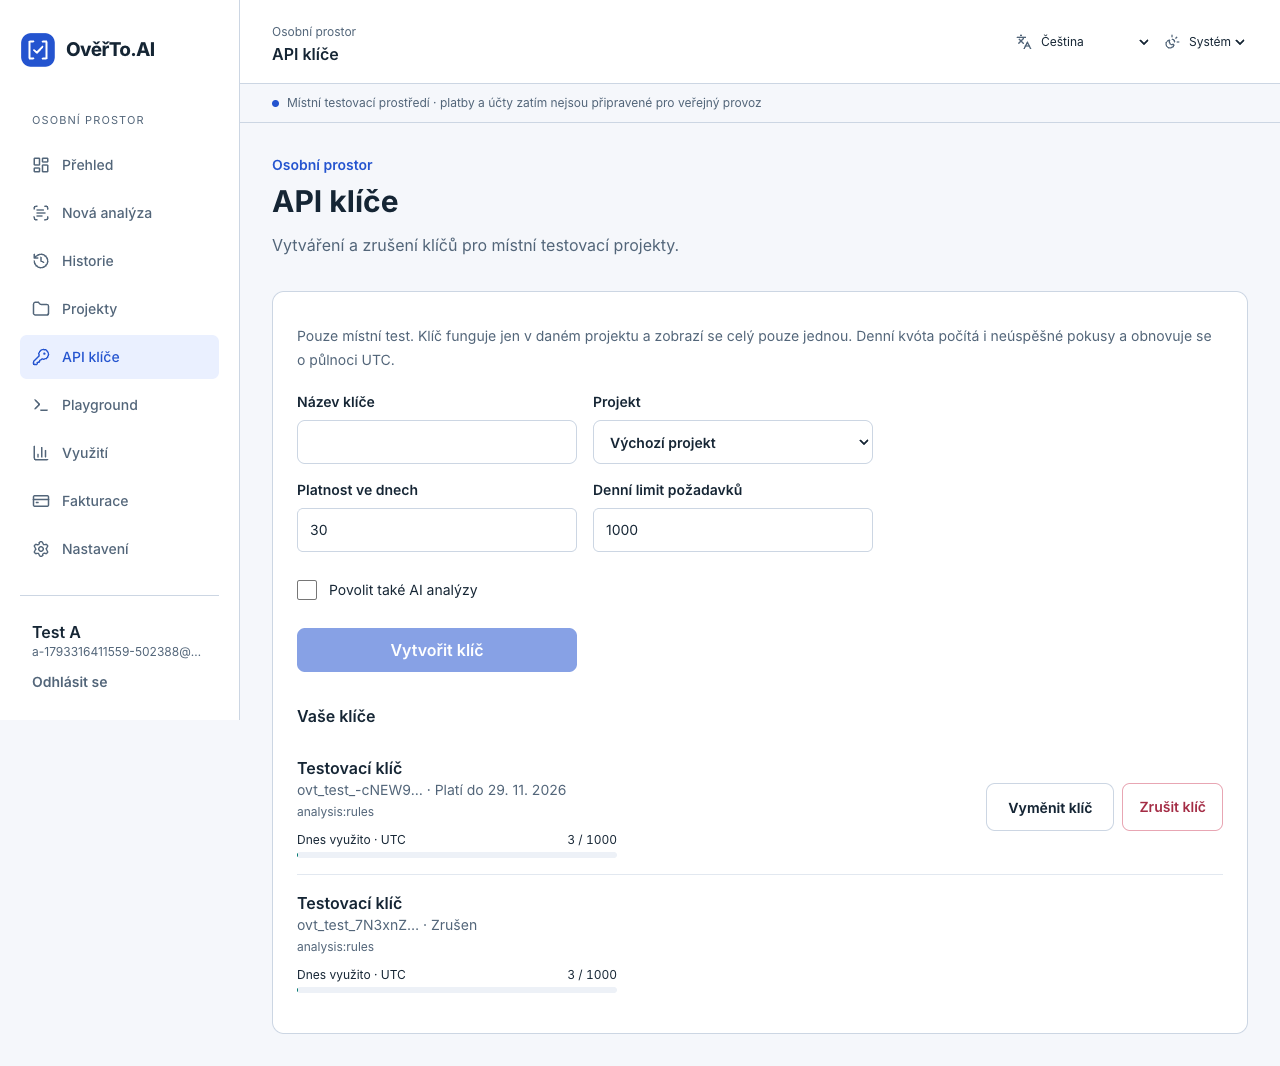
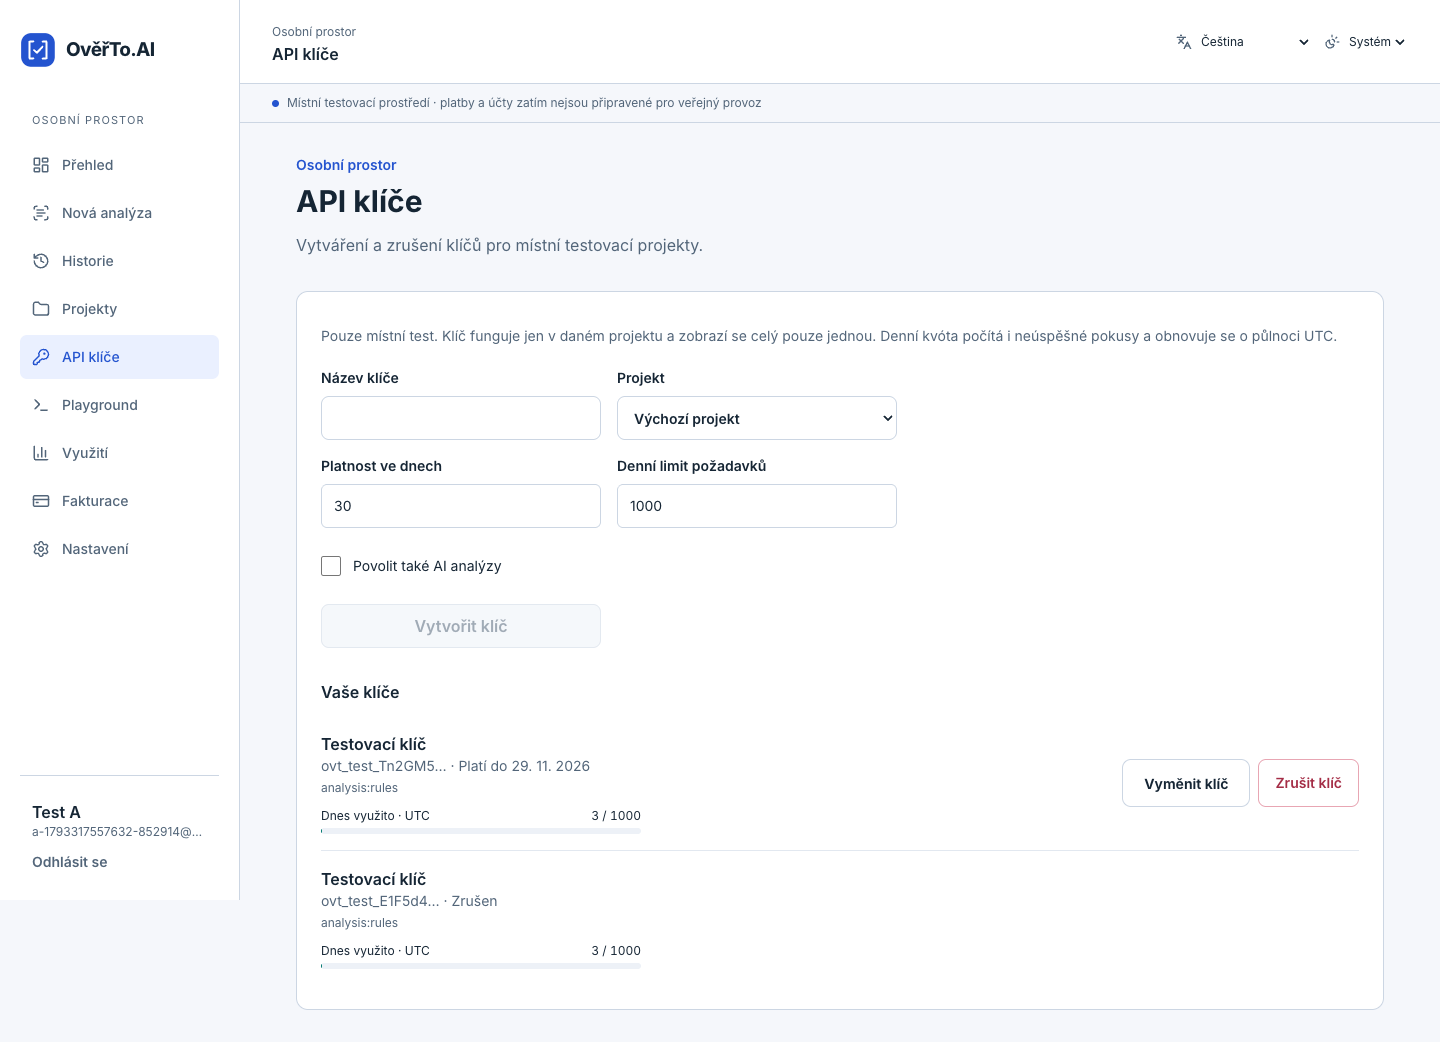
Refine mobile dashboard and API key controls after visual review

diff --git a/src/components/account/ApiKeyManager.tsx b/src/components/account/ApiKeyManager.tsx
@@ -13,8 +13,8 @@ export function ApiKeyManager({ projects, keys }: { projects: { id: string; name
   }
   async function rotate(id:string){if(!confirm(t('rotateConfirm')))return;setBusy(true);setError('');setRevealed('');setCopied(false);try{const response=await fetch(`/api/local/api-keys/${encodeURIComponent(id)}`,{method:'POST'});const data=await response.json();if(!response.ok){setError(t('keyCreateError'));return;}setRevealed(data.key);router.refresh();}catch{setError(t('network'));}finally{setBusy(false);}}
   async function revoke(id: string) { setError(''); setBusy(true); try { const response = await fetch(`/api/local/api-keys/${encodeURIComponent(id)}`, { method: 'DELETE' }); if (!response.ok) setError(t('keyRevokeError')); else router.refresh(); } catch { setError(t('network')); } finally { setBusy(false); } }
-  return <><p className="mt-2 text-sm leading-6 text-slate-600">{t('keyNote')}</p><form onSubmit={create} className="mt-5 grid max-w-xl gap-4 sm:grid-cols-2"><label className="text-sm font-semibold">{t('keyName')}<input required maxLength={80} value={name} onChange={e => setName(e.target.value)} className="mt-2 min-h-11 w-full rounded-lg border border-slate-300 px-3"/></label><label className="text-sm font-semibold">{t('project')}<select value={projectId} onChange={e => setProjectId(e.target.value)} className="mt-2 min-h-11 w-full rounded-lg border border-slate-300 bg-white px-3">{projects.map(project => <option key={project.id} value={project.id}>{project.name}</option>)}</select></label><label className="text-sm font-semibold">{t('expiresDays')}<input type="number" min={1} max={90} required value={expiresDays} onChange={e=>setExpiresDays(Number(e.target.value))} className="studio-input"/></label><label className="text-sm font-semibold">{t('dailyLimit')}<input type="number" min={1} max={100000} required value={dailyRequestLimit} onChange={e=>setDailyRequestLimit(Number(e.target.value))} className="studio-input"/></label><label className="flex min-h-11 items-center gap-3 text-sm sm:col-span-2"><input type="checkbox" checked={allowAi} onChange={e=>setAllowAi(e.target.checked)} className="size-5"/>{t('allowAi')}</label><button disabled={busy || !name.trim() || !projectId} className="min-h-11 rounded-lg bg-teal-800 px-4 font-semibold text-white hover:bg-teal-900 disabled:opacity-50">{busy ? t('working') : t('createKey')}</button></form>
+  return <><p className="mt-2 text-sm leading-6 text-slate-600">{t('keyNote')}</p><form onSubmit={create} className="mt-5 grid max-w-xl gap-4 sm:grid-cols-2"><label className="text-sm font-semibold">{t('keyName')}<input required maxLength={80} value={name} onChange={e => setName(e.target.value)} className="mt-2 min-h-11 w-full rounded-lg border border-slate-300 px-3"/></label><label className="text-sm font-semibold">{t('project')}<select value={projectId} onChange={e => setProjectId(e.target.value)} className="mt-2 min-h-11 w-full rounded-lg border border-slate-300 bg-white px-3">{projects.map(project => <option key={project.id} value={project.id}>{project.name}</option>)}</select></label><label className="text-sm font-semibold">{t('expiresDays')}<input type="number" min={1} max={90} required value={expiresDays} onChange={e=>setExpiresDays(Number(e.target.value))} className="studio-input"/></label><label className="text-sm font-semibold">{t('dailyLimit')}<input type="number" min={1} max={100000} required value={dailyRequestLimit} onChange={e=>setDailyRequestLimit(Number(e.target.value))} className="studio-input"/></label><label className="flex min-h-11 items-center gap-3 text-sm sm:col-span-2"><input type="checkbox" checked={allowAi} onChange={e=>setAllowAi(e.target.checked)} className="size-5"/>{t('allowAi')}</label><button disabled={busy || !name.trim() || !projectId} className="api-key-create min-h-11 rounded-lg bg-teal-800 px-4 font-semibold text-white hover:bg-teal-900">{busy ? t('working') : t('createKey')}</button></form>
   {error && <p role="alert" className="mt-4 text-sm text-rose-800">{error}</p>}
   {revealed && <section className="mt-5 rounded-lg border border-amber-300 bg-amber-50 p-4"><h3 className="font-semibold">{t('copyNow')}</h3><p className="mt-1 text-sm">{t('keyOnce')}</p><label htmlFor="new-api-key" className="sr-only">{t('newKey')}</label><input id="new-api-key" readOnly value={revealed} className="mt-3 w-full rounded border border-amber-300 bg-white p-2 text-sm"/><button type="button" onClick={async () => { try { await navigator.clipboard.writeText(revealed); setCopied(true); } catch { setError(t('copyError')); } }} className="mt-3 min-h-10 font-semibold text-teal-800 underline">{copied ? t('copied') : t('copy')}</button></section>}
-  <h3 className="mt-8 font-semibold">{t('yourKeys')}</h3>{keys.length ? <ul className="mt-3 divide-y divide-slate-200">{keys.map(key => <li key={key.id} className="flex flex-wrap items-center justify-between gap-4 py-4"><div className="min-w-0 flex-1"><p className="font-semibold">{key.name}</p><p className="text-sm text-slate-600">{key.key_prefix}… · {key.revoked_at ? t('revoked') : t('validUntil') + new Date(key.expires_at).toLocaleDateString(locale==='cs'?'cs-CZ':'en-GB')}</p><p className="muted mt-1 text-xs">{key.scopes.join(' · ')}</p><div className="mt-3 max-w-xs" aria-label={t('dailyUsage', { used: key.daily_used, limit: key.daily_request_limit })}><div className="mb-1 flex justify-between gap-3 text-xs"><span>{t('dailyUsageLabel')}</span><span className="tabular-nums">{key.daily_used} / {key.daily_request_limit}</span></div><div className="h-1.5 overflow-hidden rounded-full bg-slate-200"><div className="h-full rounded-full bg-teal-700" style={{ width: `${Math.min(100, key.daily_used / key.daily_request_limit * 100)}%` }}/></div></div></div>{!key.revoked_at && <div className="flex flex-wrap gap-2"><button type="button" disabled={busy} onClick={()=>rotate(key.id)} className="button button-secondary">{t('rotate')}</button><button type="button" disabled={busy} onClick={() => revoke(key.id)} className="min-h-11 rounded-lg border border-rose-300 px-4 text-sm font-semibold text-rose-800 hover:bg-rose-50 disabled:opacity-50">{t('revoke')}</button></div>}</li>)}</ul> : <p className="mt-3 text-sm text-slate-600">{t('noKeys')}</p>}</>;
+  <h3 className="mt-8 font-semibold">{t('yourKeys')}</h3>{keys.length ? <ul className="mt-3 divide-y divide-slate-200">{keys.map(key => <li key={key.id} className="api-key-row flex flex-wrap items-center justify-between gap-4 py-4"><div className="min-w-0 flex-1"><p className="font-semibold">{key.name}</p><p className="text-sm text-slate-600">{key.key_prefix}… · {key.revoked_at ? t('revoked') : t('validUntil') + new Date(key.expires_at).toLocaleDateString(locale==='cs'?'cs-CZ':'en-GB')}</p><p className="muted mt-1 text-xs">{key.scopes.join(' · ')}</p><div className="mt-3 max-w-xs" aria-label={t('dailyUsage', { used: key.daily_used, limit: key.daily_request_limit })}><div className="mb-1 flex justify-between gap-3 text-xs"><span>{t('dailyUsageLabel')}</span><span className="tabular-nums">{key.daily_used} / {key.daily_request_limit}</span></div><div className="h-1.5 overflow-hidden rounded-full bg-slate-200"><div className="h-full rounded-full bg-teal-700" style={{ width: `${Math.min(100, key.daily_used / key.daily_request_limit * 100)}%` }}/></div></div></div>{!key.revoked_at && <div className="flex flex-wrap gap-2"><button type="button" disabled={busy} onClick={()=>rotate(key.id)} className="button button-secondary">{t('rotate')}</button><button type="button" disabled={busy} onClick={() => revoke(key.id)} className="min-h-11 rounded-lg border border-rose-300 px-4 text-sm font-semibold text-rose-800 hover:bg-rose-50 disabled:opacity-50">{t('revoke')}</button></div>}</li>)}</ul> : <p className="mt-3 text-sm text-slate-600">{t('noKeys')}</p>}</>;
 }

diff --git a/e2e/local-product.e2e.ts b/e2e/local-product.e2e.ts
@@ -51,15 +51,24 @@ async function verifiedSignup(page: Page, name: string, email: string, password:
   await expect(page.getByRole('heading', { name: `Vítejte, ${name}.` })).toBeVisible();
 }
 
+async function captureDarkMobile(page: Page, path: string) {
+  const desktop = page.viewportSize();
+  await page.setViewportSize({ width: 390, height: 844 });
+  await page.emulateMedia({ colorScheme: 'dark' });
+  await page.screenshot({ path, fullPage: true });
+  await page.emulateMedia({ colorScheme: 'light' });
+  if (desktop) await page.setViewportSize(desktop);
+}
+
 test('local registration, workspace, project, logout and isolation', async ({ browser }) => {
-  const one = await browser.newContext({ locale: 'cs-CZ' }); const two = await browser.newContext({ locale: 'cs-CZ' });
+  const one = await browser.newContext({ locale: 'cs-CZ', viewport: { width: 1440, height: 900 } }); const two = await browser.newContext({ locale: 'cs-CZ' });
   const a = await one.newPage(); const b = await two.newPage();
   const suffix = `${Date.now()}-${Math.floor(Math.random() * 1000000)}`;
   const password = 'unique-local-test-password-42';
   const aEmail = `a-${suffix}@example.com`;
   await verifiedSignup(a, 'Test A', aEmail, password);
   await expect(a.getByRole('heading', { name: 'Testovací kredity' })).toBeVisible(); await expect(a.getByText('10', { exact: true })).toBeVisible();
-  if (process.env.OVERTO_CAPTURE_UI === 'true') await a.screenshot({ path: 'assets/screenshots/v7-dashboard-cs-1440.png', fullPage: true });
+  if (process.env.OVERTO_CAPTURE_UI === 'true') { await a.screenshot({ path: 'assets/screenshots/v7-dashboard-cs-1440.png', fullPage: true }); await captureDarkMobile(a, 'assets/screenshots/v7-dashboard-cs-dark-390.png'); }
   await a.goto('/dashboard/analyze');
   await a.getByLabel('Vložte podezřelou zprávu').fill('Ahoj mami, mám nové číslo. Pošli mi ihned peníze.');
   await a.getByRole('button', { name: 'Pokračovat ke kontrole textu' }).click();
@@ -113,7 +122,7 @@ test('local registration, workspace, project, logout and isolation', async ({ br
   await expect(a.getByLabel('Nový API klíč')).toHaveCount(0);
   const activeKeyRow = a.locator('li').filter({ hasText: apiKey.slice(0, 15) });
   await expect(activeKeyRow.getByLabel('Dnes využito 3 z 1000 požadavků')).toBeVisible();
-  if (process.env.OVERTO_CAPTURE_UI === 'true') await a.screenshot({ path: 'assets/screenshots/v7-api-keys-cs-1440.png', fullPage: true });
+  if (process.env.OVERTO_CAPTURE_UI === 'true') { await a.screenshot({ path: 'assets/screenshots/v7-api-keys-cs-1440.png', fullPage: true }); await captureDarkMobile(a, 'assets/screenshots/v7-api-keys-cs-dark-390.png'); }
   await activeKeyRow.getByRole('button', { name: 'Zrušit klíč' }).click();
   await expect(activeKeyRow).toContainText('Zrušen');
   const revoked = await a.request.post('/api/v1/analyses', { headers: { Authorization: `Bearer ${apiKey}`, 'Idempotency-Key': crypto.randomUUID() }, data: { text: 'Test zpráva', enableLlm: false } });

diff --git a/src/app/globals.css b/src/app/globals.css
@@ -154,6 +154,8 @@ input::placeholder,textarea::placeholder { color:var(--muted); opacity:1; }
 .studio-trace-status[data-status="SUCCESS"] { border-color:var(--accent-text); color:var(--accent-text); }
 .studio-trace-status[data-status="FAILED"] { border-color:var(--danger-line); color:var(--danger-text); }
 .studio-trace-status[data-status="UNAVAILABLE"] { border-color:var(--warning-line); color:var(--warning-text); }
+.api-key-create:disabled { background:var(--surface-alt); color:var(--muted); border:1px solid var(--line); cursor:not-allowed; }
+@media(max-width:640px) { .api-key-row { flex-direction:column; align-items:stretch; }.api-key-row > div:first-child { flex:none; width:100%; }.api-key-row > div:last-child { align-self:flex-start; } }
 @media(max-width:850px) { .studio-metrics { grid-template-columns:repeat(2,minmax(0,1fr)); }.studio-metrics section { border-bottom:1px solid var(--line); }.studio-metrics section:nth-child(2n) { border-right:0; }.studio-metrics section:last-child { border-bottom:0; } }
 @media(max-width:750px) { .dashboard-metrics { grid-template-columns:1fr; }.dashboard-metrics section { padding:20px 22px; border-right:0; border-bottom:1px solid var(--line); }.dashboard-metrics section:last-child { border-bottom:0; }.dashboard-value { font-size:34px; }.dashboard-start { align-items:flex-start; flex-direction:column; padding:24px; } }
 .workspace-stage-heading { min-height:48px; padding:12px 0; color:var(--muted); font-size:14px; font-weight:600; }

diff --git a/docs/design/FINAL-VISUAL-REVIEW.md b/docs/design/FINAL-VISUAL-REVIEW.md
@@ -45,10 +45,12 @@ The live public reference and its access limits are recorded in [reference revie
 | Home mobile, Czech dark | [Home mobile](../../assets/screenshots/v7-home-cs-dark-390.png) | One-column hero and annotation fit without horizontal overflow; the full-page capture is tall. |
 | Analysis mobile, English dark | [Analysis](../../assets/screenshots/v7-analyze-en-dark-390.png) | Disabled review action now uses a neutral surface and legible text. |
 | Dashboard desktop, Czech light | [Dashboard](../../assets/screenshots/v7-dashboard-cs-1440.png) | Credits, projects and plan form one scannable strip; all values come from the test account. |
+| Dashboard mobile, Czech dark | [Dashboard mobile](../../assets/screenshots/v7-dashboard-cs-dark-390.png) | Metrics stack cleanly; the primary analysis action stays visible below them. |
 | API keys desktop, Czech light | [Keys](../../assets/screenshots/v7-api-keys-cs-1440.png) | Current and revoked key show the same quota lineage; only prefixes are visible. |
+| API keys mobile, Czech dark | [Keys mobile](../../assets/screenshots/v7-api-keys-cs-dark-390.png) | First capture exposed squeezed key details and a low-contrast disabled button. The layout and disabled state were corrected, then recaptured after a clean dev restart. Key prefixes only are visible. |
 | Playground desktop, Czech light | [Playground](../../assets/screenshots/v7-playground-cs-1440.png) | Decision, signal count, engine and credits precede expandable JSON. The input was cleared before capture. |
 | Docs, English, 1024px | [Documentation](../../assets/screenshots/v7-docs-en-1024.png) | Navigation, code examples and content measure are readable. |
 | AI Studio, English desktop light | [Light](../../assets/screenshots/v7-ai-studio-en-light.png) | Compact live metrics and bordered trace rows replace the earlier card stack. The obsolete feature disclaimer was corrected. |
 | AI Studio, English desktop dark | [Dark](../../assets/screenshots/v7-ai-studio-en-dark.png) | Status labels remain readable in dark mode; only synthetic administrator identity and operational metadata are shown. |
 
-The dashboard and key screens still need a 390px dark inspection after the latest design pass. Billing and the remaining admin surfaces need another visual iteration. This round is a real improvement, not final visual acceptance for every route.
+Billing and the remaining admin surfaces need another visual iteration. Keyboard-only and assistive technology acceptance is still incomplete. This round is a real improvement, not final visual acceptance for every route.

diff --git a/docs/development/IMPLEMENTATION-STATUS.md b/docs/development/IMPLEMENTATION-STATUS.md
@@ -18,7 +18,7 @@ Updated 2026-10-30. This worktree is **not a production SaaS release**. Public `
 | Unit and isolated PostgreSQL integration tests | 129 passed, 0 failed, 0 skipped across 29 files after the explicit provider-health check |
 | TypeScript | `npx tsc --noEmit` passed after the documentation, home, dashboard and Studio changes |
 | ESLint | `npm run lint` passed after those changes |
-| Documentation links | Public candidate tree: 38 Markdown files, 126 local targets, 6 anchors, 20 remote URLs checked; 0 failures |
+| Documentation links | Public candidate tree: 38 Markdown files; local links, anchors and remote HTTP URLs checked; 0 failures |
 | Browser | Standard suite: 10 passed, 1 skipped (privileged test intentionally disabled). Separate privileged suite: 1 passed, 0 skipped. Covers registration, projects, key usage/rotation/scope denial, credits, logout, isolation, public page viewports, model save/restore and rules evaluation. |
 | Production build | `npm run build` passed after the documentation, home, dashboard and Studio changes. |
 

diff --git a/README.md b/README.md
@@ -88,7 +88,9 @@ The local AI Studio shows trace metadata and 24-hour operational counts. Message
 | Czech dark mobile home | [View](assets/screenshots/v7-home-cs-dark-390.png) |
 | English dark mobile analysis | [View](assets/screenshots/v7-analyze-en-dark-390.png) |
 | Czech dashboard, synthetic test account | [View](assets/screenshots/v7-dashboard-cs-1440.png) |
+| Czech dashboard, dark mobile | [View](assets/screenshots/v7-dashboard-cs-dark-390.png) |
 | Czech API keys and shared daily usage | [View](assets/screenshots/v7-api-keys-cs-1440.png) |
+| Czech API keys, dark mobile | [View](assets/screenshots/v7-api-keys-cs-dark-390.png) |
 | Czech API Playground with structured result | [View](assets/screenshots/v7-playground-cs-1440.png) |
 | English workspace, synthetic test account | [View](assets/screenshots/v7-workspace-mobile.png) |
 | Czech pricing, desktop | [View](assets/screenshots/v7-pricing-cs-1440.png) |
